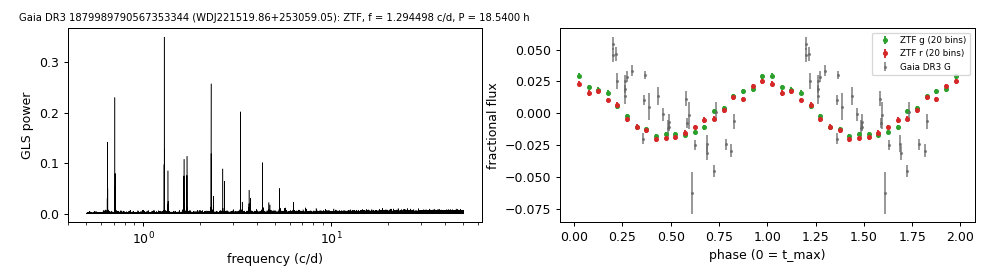
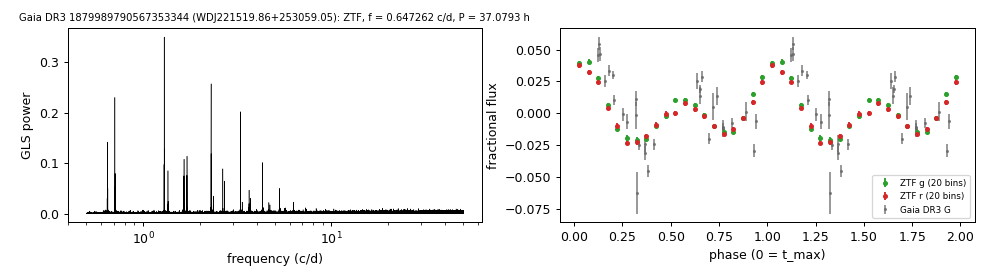
Corrections: ZZ Ceti index periods from adopted rows, two hot-WD periods at the fundamental (37.08 h, 29.49 h), inconsistent Zeeman fields flagged, eclipser relabelled, DAO Teff strings, J1949 lead reworded

diff --git a/scripts/object_pages.py b/scripts/object_pages.py
@@ -6,6 +6,7 @@ All numbers are taken verbatim from tables/*.csv; descriptions repeat the topic 
 Usage: python object_pages.py (run from scripts/)."""
 import os, glob, collections
 import pandas as pd
+import numpy as np
 
 R = os.path.join(os.path.dirname(os.path.abspath(__file__)), "..")
 OUT = os.path.join(R, "docs", "objects")
@@ -106,14 +107,20 @@ add("3107374277060584064", "WDJ064438.09-004550.51", Entry(
     ["reflection_3107374277060584064.py"], None))
 
 # Irradiated companions.
-d = T("irradiated_companions.csv")
+d = T("irradiated_companions.csv"); dp = T("irradiated_companions_periods.csv")
+def ratio_err(gaia):
+    q = dp[dp.gaia_dr3 == gaia].set_index("dataset")
+    if "Gaia RP" not in q.index or "Gaia BP" not in q.index: return ""
+    rp, bp = q.loc["Gaia RP"], q.loc["Gaia BP"]; ar, er, ab, eb = (float(x) for x in (rp.semi_amplitude_pct, rp.e_semi_amplitude_pct, bp.semi_amplitude_pct, bp.e_semi_amplitude_pct))
+    v = ar / ab; return f"{v:.1f} ± {v * ((er / ar) ** 2 + (eb / ab) ** 2) ** 0.5:.1f}"
 for _, r in d.iterrows():
     desc = (f"Low-mass white dwarf: GF21 H-atmosphere Teff {r.gf21_teff_H} K, {r.gf21_mass_H} Msun; "
             f"G = {r.G}, {r.distance_pc} pc.")
     w1 = f"; W1 {r.W1_ratio}x the white-dwarf model (companion M_W1 = {r.M_W1_companion})" if r.W1_ratio else ""
-    obs = f"P = {r.period_min} min; red-to-blue semi-amplitude ratio {r.red_to_blue_amplitude}{w1}"
+    rerr = ratio_err(r.gaia_dr3) or str(r.red_to_blue_amplitude)
+    obs = f"P = {r.period_min} min; red-to-blue (Gaia RP/BP) semi-amplitude ratio {rerr}{w1}"
     add(r.gaia_dr3, r["name"], Entry("irradiated_companions", "Short-period white dwarfs with irradiated companions",
-        "irradiated_companions.md", desc, obs, f"P = {r.period_min} min; " + (f"**W1 {r.W1_ratio}x model**" if r.W1_ratio else f"**red/blue amplitude {r.red_to_blue_amplitude}**"),
+        "irradiated_companions.md", desc, obs, f"P = {r.period_min} min; " + (f"**W1 {r.W1_ratio}x model**" if r.W1_ratio else f"red/blue amplitude {rerr}"),
         ["irradiated_companions.csv", "irradiated_companions_periods.csv"], None, ["irradiated_companions.py"], None))
 
 # Gaseous discs.
@@ -144,8 +151,11 @@ for _, r in d.iterrows():
     desc = f"DA white dwarf, G = {r.G}; catalogued: {cat(r, ('snowwhite_class', 'SnowWhite'), ('simbad_type', 'SIMBAD'), ('mwdd_spectype', 'MWDD'))}." + (f" {r.note[0].upper() + r.note[1:]}{'' if r.note.endswith('.') else '.'}" if r.note else "")
     obs = (f"Zeeman-split Balmer lines: B = {r.B_split_Ha_MG} ± {r.e_B_split_Ha_MG} MG (H-alpha), "
            f"{r.B_split_Hb_MG} ± {r.e_B_split_Hb_MG} MG (H-beta); spectrum S/N {r.snr}")
+    inconsistent = abs(float(r.B_split_Ha_MG) - float(r.B_split_Hb_MG)) > 1.0
+    if inconsistent: obs += "; the two lines disagree by more than 1 MG, so the field is not established"
     add(r.gaia_dr3, r["name"], Entry("zeeman", "Zeeman splitting", "zeeman.md", desc, obs,
-        f"B = {r.B_split_Ha_MG} MG", ["magnetic_zeeman.csv"], None, ["zeeman_split.py"], None))
+        f"B = {r.B_split_Ha_MG} MG (H-alpha) vs {r.B_split_Hb_MG} MG (H-beta): inconsistent" if inconsistent else f"B = {r.B_split_Ha_MG} MG",
+        ["magnetic_zeeman.csv"], None, ["zeeman_split.py"], None))
 
 # TESS amplitude spectra (ZZ Ceti candidates).
 zo, zs = T("zz_ceti_objects.csv"), T("zz_ceti_tess_sectors.csv")
@@ -158,14 +168,15 @@ for _, r in zo.iterrows():
     pix = "; ".join(f"pixel-level test (sector {x.sector}): chi2 {x.pixel_chi2_target} at the target vs {x.pixel_chi2_best_other} "
                     f"at the best other star (G = {x.pixel_best_other_G}, {x.pixel_best_other_sep_arcsec} arcsec)" for _, x in px.iterrows())
     obs = f"TESS pulsation signal(s): {per}" + (f"; {pix}" if pix else "")
+    best = (px if len(px) else g[g.cadence_s == 120]).sort_values("fap_baluev").iloc[0]
     add(r.gaia_dr3, r["name"], Entry("zz_ceti", "TESS amplitude spectra", "zz_ceti.md", desc, obs,
-        f"pulsations, {g.iloc[0].period_s} s", ["zz_ceti_objects.csv", "zz_ceti_tess_sectors.csv"],
+        f"pulsations, {best.period_s} s (sector {best.sector}, FAP {best.fap_baluev})", ["zz_ceti_objects.csv", "zz_ceti_tess_sectors.csv"],
         None, ["tess_periodogram.py", "tess_pixel_test.py"], None))
 
 # Eclipses and Balmer emission.
 r = T("eclipsing_4731701084150029824.csv").iloc[0]
 add(r.gaia_dr3, r["name"], Entry("eclipse_and_emission", "Eclipse and Balmer emission", "eclipse_and_emission.md",
-    f"White dwarf, G = {r.G}; catalogued: {cat(r, ('simbad_type', 'SIMBAD'), ('mwdd_spectype', 'MWDD'))}.",
+    f"Star with M-dwarf colours (BP-RP {r.bp_rp}, M_G {float(r.G) - 5 * np.log10(1000 / float(r.parallax_mas)) + 5:.2f}), G = {r.G}; the eclipsed object is not identified; catalogued: {cat(r, ('simbad_type', 'SIMBAD'), ('mwdd_spectype', 'MWDD'))}.",
     f"Eclipses in ATLAS: P = {r.period_d} ± {r.e_period_d} d, total duration {r.total_duration_min} min, depths {r.depth_o_uJy}/{r.depth_c_uJy} uJy (o/c)",
     f"eclipses, P = {r.period_d} d", ["eclipsing_4731701084150029824.csv"], None, ["j0353_eclipse.py"], None))
 for _, r in T("balmer_emission.csv").iterrows():
@@ -177,19 +188,25 @@ for _, r in T("balmer_emission.csv").iterrows():
 
 # Hot white dwarfs with He II lines (targets; the table also carries the control stars).
 d = T("hot_white_dwarfs.csv")
+for c in ("teff_kK", "teff_min_kK", "teff_max_kK"): d[c] = d[c].astype(float)
+TEFF_NOT_CONSTRAINED = {"6365804611201098368", "5671975077144346112"}  # as judged on docs/hot_white_dwarfs.md (grid ceiling; S/N)
 for gaia, g in d[d.role == "target"].groupby("gaia_dr3", sort=False):
+    he = g[g.line_set == "He only"].iloc[0]
     fits = "; ".join(f"{x.line_set}: Teff {x.teff_kK} kK ({x.teff_min_kK}-{x.teff_max_kK}), log g {x.logg}" for _, x in g.iterrows())
     lit = g.iloc[0].lit_teff_kK
     obs = f"He II 4686 and Balmer absorption (DAO); TMAP model fits - {fits}" + (f"; literature Teff {lit} kK" if str(lit).strip() else "")
     add(gaia, g.iloc[0]["name"], Entry("hot_white_dwarfs", "Hot white dwarfs with He II lines", "hot_white_dwarfs.md",
-        "Hot white dwarf; no earlier spectrum found.", obs, "DAO, Teff ~60-110 kK (TMAP)",
+        "Hot white dwarf; no earlier spectrum found.", obs,
+        "DAO (He II 4686 + Balmer); " + ("Teff not constrained" if gaia in TEFF_NOT_CONSTRAINED else f"Teff {he.teff_kK:g} kK (He-only TMAP fit" + (f", {he.teff_min_kK:g}-{he.teff_max_kK:g}" if he.teff_min_kK != he.teff_max_kK else "") + ")"),
         ["hot_white_dwarfs.csv"], None, ["hot_white_dwarfs.py"], None))
 
 # Write the object pages.
 PAGE_LEAD = {
-    "2249098833310553728": "A catalogued but unclassified 63.7-minute variable, identified here as a low-mass white dwarf "
-    "with an irradiated, near-Roche-filling companion — potentially the shortest-period detached white dwarf + brown dwarf "
-    "system known (the shortest published period is 68.2 min; Casewell et al. 2018).",
+    "2249098833310553728": "A catalogued but unclassified 63.7-minute variable: a coherent modulation on an over-luminous "
+    "low-mass white dwarf, 1.6 ± 0.3 times larger in Gaia RP than in BP. With the GF21 parameters (16.8 kK, 0.14 Msun) the "
+    "15.6% G-band semi-amplitude is more than a passive companion inside its Roche lobe can reflect, so either the companion "
+    "is at or beyond its Roche lobe or the primary is hotter than the photometric fit; no spectrum and no infrared "
+    "measurement (a red source 3.7 arcsec away dominates WISE) exist, so the companion's nature is open.",
 }
 ORDER = ["gas_discs", "carbon", "zeeman", "periodic", "zz_ceti", "eclipse_and_emission", "hot_white_dwarfs",
          "irradiated_companions", "hot_wd_periods", "dae_wd_periods"]
@@ -262,7 +279,7 @@ for topic in ORDER:
     for name, g, e in rows:
         m = MARK.get(g, 0)
         marks = " " + "\\*" * m if m else ""
-        s = e.short if g in NOBOLD or "**" in e.short else f"**{e.short}**"
+        s = e.short if g in NOBOLD or "**" in e.short or "inconsistent" in e.short or "red/blue amplitude" in e.short else f"**{e.short}**"
         idx.append(f"| [{name}](docs/objects/{g}.md){marks} | {e.desc} | {s} |")
     idx.append("")
 p = os.path.join(R, "README.md"); t = open(p).read()

diff --git a/README.md b/README.md
@@ -61,7 +61,7 @@ One page per object with the measurement and its supporting data (tables, input 
 | [GALEX J060732.0-390139](docs/objects/2883030508640778752.md) \*\* | DA white dwarf, G = 17.582; catalogued: SnowWhite DAH; SIMBAD WD*/DA:; MWDD DA:. | **B = 8.83 MG** |
 | [GALEX J215736.7-574324](docs/objects/6412133010376770560.md) \*\* | DA white dwarf, G = 18.645; catalogued: SnowWhite DAH; SIMBAD WD*/DA; MWDD DA. | **B = 7.96 MG** |
 | [GALEX J203016.2-620507](docs/objects/6430762242043644032.md) \*\* | DA white dwarf, G = 18.771; catalogued: SnowWhite DAH/DA; SIMBAD WD*/DA; MWDD DA. | **B = 6.96 MG** |
-| [Gaia DR3 5848754492268362624](docs/objects/5848754492268362624.md) \*\* | DA white dwarf, G = 17.888; catalogued: SnowWhite DAH/DA; SIMBAD WD*/DA; MWDD DA:. | **B = 7.11 MG** |
+| [Gaia DR3 5848754492268362624](docs/objects/5848754492268362624.md) \*\* | DA white dwarf, G = 17.888; catalogued: SnowWhite DAH/DA; SIMBAD WD*/DA; MWDD DA:. | B = 7.11 MG (H-alpha) vs 5.93 MG (H-beta): inconsistent |
 | [Gaia DR3 428300220431345536](docs/objects/428300220431345536.md) \*\* | DA white dwarf, G = 17.572; catalogued: SnowWhite DA/DAH; SIMBAD WD*/DA; MWDD DA:. | **B = 6.51 MG** |
 | [GALEX J195006.0+015739](docs/objects/4241409569220727424.md) \*\* | DA white dwarf, G = 18.226; catalogued: SnowWhite DA/DAH; SIMBAD WD*/DA; MWDD DA. | **B = 9.74 MG** |
 | [Cl* Melotte   25  REIDA     503](docs/objects/50526755482496000.md) \*\* | DA white dwarf, G = 18.333; catalogued: SnowWhite DAH; SIMBAD WD*/DA:; MWDD DA:. | **B = 10.02 MG** |
@@ -74,10 +74,10 @@ One page per object with the measurement and its supporting data (tables, input 
 | [GALEX J035849.5-605233](docs/objects/4680104332056706304.md) \*\* | DA white dwarf, G = 18.697; catalogued: SnowWhite DAH/DA; SIMBAD WD*/DA; MWDD DA. | **B = 6.04 MG** |
 | [GALEX J052137.6-425430](docs/objects/4800536829945050752.md) \*\* | DA white dwarf, G = 19.525; catalogued: SnowWhite DA/DAH; SIMBAD WD?. | **B = 6.93 MG** |
 | [Gaia DR3 4187365308538865792](docs/objects/4187365308538865792.md) \*\* | DA white dwarf, G = 19.421; catalogued: SnowWhite DA/DAH; SIMBAD WD*/DA; MWDD DA. | **B = 5.47 MG** |
-| [GALEX J004807.2+433940](docs/objects/375892788968158848.md) \*\* | DA white dwarf, G = 19.121; catalogued: SnowWhite DAH; SIMBAD WD*/DA:; MWDD DA:. | **B = 8.76 MG** |
+| [GALEX J004807.2+433940](docs/objects/375892788968158848.md) \*\* | DA white dwarf, G = 19.121; catalogued: SnowWhite DAH; SIMBAD WD*/DA:; MWDD DA:. | B = 8.76 MG (H-alpha) vs 3.74 MG (H-beta): inconsistent |
 | [GALEX J033920.8-475633](docs/objects/4833309388918586624.md) \*\* | DA white dwarf, G = 19.696; catalogued: SnowWhite DA/DAH; SIMBAD WD?. | **B = 7.27 MG** |
 | [GALEX J213436.2-521245](docs/objects/6465559379883395328.md) \*\* | DA white dwarf, G = 19.088; catalogued: SnowWhite DA; SIMBAD WD*/DA; MWDD DA. | **B = 4.16 MG** |
-| [Gaia DR3 5665371272869153152](docs/objects/5665371272869153152.md) \*\* | DA white dwarf, G = 19.297; catalogued: SnowWhite DA; SIMBAD WD?. | **B = 8.5 MG** |
+| [Gaia DR3 5665371272869153152](docs/objects/5665371272869153152.md) \*\* | DA white dwarf, G = 19.297; catalogued: SnowWhite DA; SIMBAD WD?. | B = 8.5 MG (H-alpha) vs 4.15 MG (H-beta): inconsistent |
 | [Gaia DR3 3327361677328480256](docs/objects/3327361677328480256.md) \*\* | DA white dwarf, G = 17.835; catalogued: SnowWhite DA; SIMBAD WD*/DA; MWDD DA. | **B = 3.57 MG** |
 | [GALEX J040038.6-615458](docs/objects/4679463733391272448.md) \*\* | DA white dwarf, G = 18.514; catalogued: SnowWhite DA; SIMBAD WD*/DA; MWDD DA. Common proper motion with Gaia DR3 4679466653969618816 (G 9.83) at 86 arcsec. | **B = 4.28 MG** |
 | [GALEX J050006.8+080244](docs/objects/3290180587821828480.md) \*\* | DA white dwarf, G = 18.906; catalogued: SnowWhite DA; SIMBAD WD*/DA; MWDD DA. | **B = 5.3 MG** |
@@ -109,17 +109,17 @@ One page per object with the measurement and its supporting data (tables, input 
 
 | object | description | measurement |
 |---|---|---|
-| [GALEX J054243.4-261011](docs/objects/2908195134345338496.md) \*\* | White dwarf, G = 17.634; SnowWhite DA (Teff 12173 K, log g 7.93); catalogued: SIMBAD WD*/DA; MWDD DA. | **pulsations, 692.1 s** |
-| [GALEX J033619.1-564435](docs/objects/4729763229265811328.md) \*\* | White dwarf, G = 17.493; SnowWhite DA (Teff 11626 K, log g 8.07); catalogued: SIMBAD WD*/DA; MWDD DA. | **pulsations, 605.1 s** |
-| [L  210-25](docs/objects/6472153670805656832.md) \*\* | White dwarf, G = 16.402; SnowWhite DA (Teff 11191 K, log g 8.16); catalogued: SIMBAD WD*/DA; MWDD DA. | **pulsations, 817.3 s** |
-| [[OHD2001] WD J2324-595](docs/objects/6492083311194727168.md) \*\*\* | White dwarf, G = 16.809; SnowWhite DA (Teff 11600 K, log g 7.89); catalogued: SIMBAD WD*/DA; MWDD DA. | **pulsations, 170.4 s** |
-| [GALEX J214927.5-515827](docs/objects/6558472750993181568.md) \*\*\* | White dwarf, G = 17.084; SnowWhite DA (Teff 11817 K, log g 8.12); catalogued: SIMBAD WD*/DA; MWDD DA. | **pulsations, 1067.1 s** |
+| [GALEX J054243.4-261011](docs/objects/2908195134345338496.md) \*\* | White dwarf, G = 17.634; SnowWhite DA (Teff 12173 K, log g 7.93); catalogued: SIMBAD WD*/DA; MWDD DA. | **pulsations, 692.1 s (sector 98, FAP 9.5e-05)** |
+| [GALEX J033619.1-564435](docs/objects/4729763229265811328.md) \*\* | White dwarf, G = 17.493; SnowWhite DA (Teff 11626 K, log g 8.07); catalogued: SIMBAD WD*/DA; MWDD DA. | **pulsations, 971.4 s (sector 96, FAP 6.4e-05)** |
+| [L  210-25](docs/objects/6472153670805656832.md) \*\* | White dwarf, G = 16.402; SnowWhite DA (Teff 11191 K, log g 8.16); catalogued: SIMBAD WD*/DA; MWDD DA. | **pulsations, 940.9 s (sector 105, FAP 0.0012)** |
+| [[OHD2001] WD J2324-595](docs/objects/6492083311194727168.md) \*\*\* | White dwarf, G = 16.809; SnowWhite DA (Teff 11600 K, log g 7.89); catalogued: SIMBAD WD*/DA; MWDD DA. | **pulsations, 1049.3 s (sector 102, FAP 1.5e-27)** |
+| [GALEX J214927.5-515827](docs/objects/6558472750993181568.md) \*\*\* | White dwarf, G = 17.084; SnowWhite DA (Teff 11817 K, log g 8.12); catalogued: SIMBAD WD*/DA; MWDD DA. | **pulsations, 947.5 s (sector 102, FAP 3.3e-05)** |
 
 ### Eclipse and Balmer emission (3)
 
 | object | description | measurement |
 |---|---|---|
-| [Gaia DR3 4731701084150029824](docs/objects/4731701084150029824.md) \*\*\* | White dwarf, G = 18.373; catalogued: none found. | **eclipses, P = 0.14786971 d** |
+| [Gaia DR3 4731701084150029824](docs/objects/4731701084150029824.md) \*\*\* | Star with M-dwarf colours (BP-RP 2.817, M_G 13.17), G = 18.373; the eclipsed object is not identified; catalogued: none found. | **eclipses, P = 0.14786971 d** |
 | [Gaia DR3 2002597083798483200](docs/objects/2002597083798483200.md) \*\* | G = 18.816; catalogued: SIMBAD WD*/DQ:; MWDD DQ:. | **Balmer emission, EW 318.3 A** |
 | [Gaia DR3 1977447164064222976](docs/objects/1977447164064222976.md) \*\* | G = 19.454; catalogued: SIMBAD WD*/DC:; MWDD DC:. | **Balmer emission, EW 45.9 A** |
 
@@ -127,12 +127,12 @@ One page per object with the measurement and its supporting data (tables, input 
 
 | object | description | measurement |
 |---|---|---|
-| [GALEX J055029.7-155446](docs/objects/2995107164834343680.md) \*\*\* | Hot white dwarf; no earlier spectrum found. | **DAO, Teff ~60-110 kK (TMAP)** |
-| [GALEX J062928.9-415857](docs/objects/5570041179495992704.md) \*\*\* | Hot white dwarf; no earlier spectrum found. | **DAO, Teff ~60-110 kK (TMAP)** |
-| [SDSS J081413.43+022524.7](docs/objects/3090786872841030016.md) \*\*\* | Hot white dwarf; no earlier spectrum found. | **DAO, Teff ~60-110 kK (TMAP)** |
-| [Gaia DR3 4036084504408126976](docs/objects/4036084504408126976.md) \*\*\* | Hot white dwarf; no earlier spectrum found. | **DAO, Teff ~60-110 kK (TMAP)** |
-| [GALEX J190659.9-755815](docs/objects/6365804611201098368.md) \*\*\* | Hot white dwarf; no earlier spectrum found. | **DAO, Teff ~60-110 kK (TMAP)** |
-| [WDJ095852.35-175833.41](docs/objects/5671975077144346112.md) \*\*\* | Hot white dwarf; no earlier spectrum found. | **DAO, Teff ~60-110 kK (TMAP)** |
+| [GALEX J055029.7-155446](docs/objects/2995107164834343680.md) \*\*\* | Hot white dwarf; no earlier spectrum found. | **DAO (He II 4686 + Balmer); Teff 110 kK (He-only TMAP fit, 100-120)** |
+| [GALEX J062928.9-415857](docs/objects/5570041179495992704.md) \*\*\* | Hot white dwarf; no earlier spectrum found. | **DAO (He II 4686 + Balmer); Teff 100 kK (He-only TMAP fit)** |
+| [SDSS J081413.43+022524.7](docs/objects/3090786872841030016.md) \*\*\* | Hot white dwarf; no earlier spectrum found. | **DAO (He II 4686 + Balmer); Teff 90 kK (He-only TMAP fit)** |
+| [Gaia DR3 4036084504408126976](docs/objects/4036084504408126976.md) \*\*\* | Hot white dwarf; no earlier spectrum found. | **DAO (He II 4686 + Balmer); Teff 90 kK (He-only TMAP fit)** |
+| [GALEX J190659.9-755815](docs/objects/6365804611201098368.md) \*\*\* | Hot white dwarf; no earlier spectrum found. | **DAO (He II 4686 + Balmer); Teff not constrained** |
+| [WDJ095852.35-175833.41](docs/objects/5671975077144346112.md) \*\*\* | Hot white dwarf; no earlier spectrum found. | **DAO (He II 4686 + Balmer); Teff not constrained** |
 
 ### Short-period white dwarfs with irradiated companions (6)
 
@@ -142,7 +142,7 @@ One page per object with the measurement and its supporting data (tables, input 
 | [WDJ212738.67+593755.72](docs/objects/2191618770599895296.md) \*\*\*\* | Low-mass white dwarf: GF21 H-atmosphere Teff 13777 K, 0.263 Msun; G = 16.871, 241 pc. | P = 130.182 min; **W1 3.61x model** |
 | [WDJ070106.16-534811.37](docs/objects/5503429908930455808.md) \*\*\*\* | Low-mass white dwarf: GF21 H-atmosphere Teff 16240 K, 0.256 Msun; G = 18.426, 602 pc. | P = 81.493 min; **W1 2.21x model** |
 | [WDJ040444.35-395043.1](docs/objects/4844023064578952320.md) \*\*\*\* | Low-mass white dwarf: GF21 H-atmosphere Teff 20562 K, 0.243 Msun; G = 17.663, 632 pc. | P = 117.319 min; **W1 2.02x model** |
-| [WDJ194901.41+673005.59](docs/objects/2249098833310553728.md) \*\*\*\*\* | Low-mass white dwarf: GF21 H-atmosphere Teff 16817 K, 0.143 Msun; G = 18.027, 739 pc. | P = 63.68 min; **red/blue amplitude 1.61** |
+| [WDJ194901.41+673005.59](docs/objects/2249098833310553728.md) \*\*\*\*\* | Low-mass white dwarf: GF21 H-atmosphere Teff 16817 K, 0.143 Msun; G = 18.027, 739 pc. | P = 63.68 min; red/blue amplitude 1.6 ± 0.3 |
 | [WDJ005615.18-661731.98](docs/objects/4705562733524591232.md) \*\*\* | Low-mass white dwarf: GF21 H-atmosphere Teff 15358 K, 0.255 Msun; G = 18.801, 714 pc. | P = 73.522 min; **W1 1.69x model** |
 
 ### Day-scale periods of hot white dwarfs (9)
@@ -151,9 +151,9 @@ One page per object with the measurement and its supporting data (tables, input 
 |---|---|---|
 | [WDJ091433.60+581238.12](docs/objects/1038176780370360576.md) \*\*\* | SBSS 0910+584; spectral type DO (MWDD). G = 17.73, 810 pc. | **P = 27.23048 h, 3.8% (ZTF)** |
 | [WDJ151215.73+065156.43](docs/objects/1157401396015448960.md) \* | GALEX J151215.7+065156; UHE white dwarf, DOZ (Reindl et al. 2021, where the period is published). G = 17.22, 990 pc. | P = 5.4245 h, 1.8% (ZTF) |
-| [WDJ221519.86+253059.05](docs/objects/1879989790567353344.md) \*\*\* | GALEX J221519.8+253059; spectral type DOZ (MWDD). G = 17.05, 1190 pc. | **P = 18.54001 h, 2.2% (ZTF)** |
+| [WDJ221519.86+253059.05](docs/objects/1879989790567353344.md) \*\*\* | GALEX J221519.8+253059; spectral type DOZ (MWDD). G = 17.05, 1190 pc. | **P = 37.07929 h, 1.4% (ZTF)** |
 | [WDJ075540.94+400917.91](docs/objects/920621124593362816.md) \* | KUV 07523+4017; DOZ / PG 1159 (Reindl et al. 2021, where the period is published). G = 17.80, 1052 pc. | P = 20.78523 h, 2.5% (ZTF) |
-| [WDJ065819.86+441438.40](docs/objects/953685015492787456.md) \*\*\* | Gaia XP class DO (Vincent et al. 2024). G = 17.53, 483 pc. | **P = 14.74481 h, 2.8% (ZTF)** |
+| [WDJ065819.86+441438.40](docs/objects/953685015492787456.md) \*\*\* | Gaia XP class DO (Vincent et al. 2024). G = 17.53, 483 pc. | **P = 29.49088 h, 0.9% (ZTF)** |
 | [WDJ025657.85-145029.92](docs/objects/5157333438398813824.md) \*\*\* | Spectral type DA with a photometric temperature above 100 kK (MWDD). G = 17.37, 1072 pc. | **P = 28.51831 h, 3.4% (ZTF)** |
 | [WDJ171743.52+515840.07](docs/objects/1415911839725510528.md) \*\* | Spectral type DA, 68.0 kK (Kilic et al. 2026, via the MWDD). G = 17.59, 833 pc. | **P = 30.1191 h, 1.9% (ZTF)** |
 | [WDJ234931.84-353916.52](docs/objects/2311285729210966144.md) \*\* | GALEX J234931.8-353916; SDSS-V DR20 SnowWhite class DA. G = 17.88, 882 pc. | **P = 26.4793 h, 2.6% (ATLAS)** |

diff --git a/docs/hot_wd_periods.md b/docs/hot_wd_periods.md
@@ -1,6 +1,6 @@
 # Day-scale photometric periods of hot white dwarfs
 
-`tables/hot_wd_periods.csv` lists nine white dwarfs, most with helium-dominated spectra hotter than 50,000 K, with photometric periods of 5.4 to 30.1 hours. Seven come from a blind Lomb-Scargle search of the ZTF light curves of the 716 white dwarfs that Jestin et al. (2026) list as not variable; two come from Gaia DR3 periodogram frequencies confirmed with ATLAS forced photometry. For two of the nine (WDJ151215.73+065156.43 and KUV 07523+4017) the period was already published by Reindl et al. (2021); the other seven have no published period. The method is in [METHODS.md](../METHODS.md#methods).
+`tables/hot_wd_periods.csv` lists nine white dwarfs, most with helium-dominated spectra hotter than 50,000 K, with photometric periods of 5.4 to 37.1 hours. Seven come from a blind Lomb-Scargle search of the ZTF light curves of the 716 white dwarfs that Jestin et al. (2026) list as not variable; two come from Gaia DR3 periodogram frequencies confirmed with ATLAS forced photometry. For two of the nine (WDJ151215.73+065156.43 and KUV 07523+4017) the period was already published by Reindl et al. (2021); the other seven have no published period. The method is in [METHODS.md](../METHODS.md#methods).
 
 Checks applied to every star: VSX, the Montreal White Dwarf Database, Chen et al. (2020), Gao et al. (2025), Wang et al. (2025), Oliveira da Rosa et al. (2024), Filiz et al. (2026), Reindl et al. (2021) and the TESS cataclysmic-variable catalogue (2026); TARS excludes these stars by its magnitude and distance cuts.
 
@@ -8,15 +8,16 @@ Checks applied to every star: VSX, the Montreal White Dwarf Database, Chen et al
 |---|---|---|---|---|---|---|
 | WDJ091433.60+581238.12 | 1038176780370360576 | 17.73 | 810 | SBSS 0910+584; spectral type DO (MWDD) | 27.2305 | ZTF g 4.0%, r 3.4% |
 | WDJ151215.73+065156.43 | 1157401396015448960 | 17.22 | 990 | GALEX J151215.7+065156; UHE white dwarf, DOZ (Reindl et al. 2021); period published there: 0.226022 d | 5.4245 | ZTF g 1.9%, r 1.8% |
-| WDJ221519.86+253059.05 | 1879989790567353344 | 17.05 | 1190 | GALEX J221519.8+253059; spectral type DOZ (MWDD) | 18.5400 | ZTF g 2.3%, r 2.1%; Gaia G 2.9% |
+| WDJ221519.86+253059.05 | 1879989790567353344 | 17.05 | 1190 | GALEX J221519.8+253059; spectral type DOZ (MWDD) | 37.0793 | fundamental: ZTF g 1.4%, r 1.4%; first harmonic (18.54 h): g 2.3%, r 2.0% |
 | WDJ075540.94+400917.91 | 920621124593362816 | 17.80 | 1052 | KUV 07523+4017; DOZ / PG 1159 (Reindl et al. 2021); period published there: 0.866092 d | 20.7852 | ZTF g 2.2%, r 2.7% |
-| WDJ065819.86+441438.40 | 953685015492787456 | 17.53 | 483 | Gaia XP class DO (Vincent et al. 2024) | 14.7448 | ZTF g 3.5%, r 2.8% |
+| WDJ065819.86+441438.40 | 953685015492787456 | 17.53 | 483 | Gaia XP class DO (Vincent et al. 2024) | 29.4909 | fundamental: ZTF g 1.0%, r 0.9%; first harmonic (14.74 h): g 3.4%, r 2.7% |
 | WDJ025657.85-145029.92 | 5157333438398813824 | 17.37 | 1072 | spectral type DA with a photometric temperature above 100 kK (MWDD) | 28.5183 | ZTF g 3.4%, r 3.5% |
 | WDJ171743.52+515840.07 | 1415911839725510528 | 17.59 | 833 | spectral type DA, 68.0 kK (Kilic et al. 2026, via the MWDD) | 30.1191 | ZTF g 1.9%, r 1.9% |
 | WDJ234931.84-353916.52 | 2311285729210966144 | 17.88 | 882 | GALEX J234931.8-353916; SDSS-V DR20 SnowWhite class DA | 26.4793 | ATLAS c+o 2.6%; Gaia G 3.6% |
 | WDJ065134.01+185201.09 | 3365371721281530880 | 18.10 | 1100 | no spectrum found | 20.1718 | ATLAS c+o 3.6%; Gaia G 5.2% |
 
 - **Distance:** 1/parallax.
+- WDJ221519.86+253059.05 and WDJ065819.86+441438.40 were first listed here at 18.5400 h and 14.7448 h, the strongest Lomb-Scargle peaks. Both light curves also carry a coherent component at half that frequency (semi-amplitude 1.4% and 0.9%, 22-25 and 15 sigma, present in g and r at the same phase), and folded at twice the first period alternate maxima and minima differ by 20-30 mmag. The photometric periods are therefore 37.0793 h and 29.4909 h, with the earlier value being the first harmonic; `adopt_frequency_cd` in `data/hot_dae_wd_periods_sources.csv` records this. Whether the longer period is orbital (ellipsoidal or double-spotted rotation would give exactly this pattern) is not decided by the photometry.
 - Jestin et al. (2026) list the seven ZTF stars as not variable (their table A1); the periodograms above give false-alarm probabilities of 1e-63 to 1e-252.
 - The periods of WDJ151215.73+065156.43 and KUV 07523+4017 are in the period tables of Reindl et al. (2021, A&A 647, A184); those tables are not in VizieR and were matched by name after the first version of this page.
 - WDJ234931.84-353916.52 and WDJ065134.01+185201.09 carry Gaia DR3 `vari_spurious_signals` frequencies; ATLAS shows the same frequency as the highest peak in both bands.

diff --git a/METHODS.md b/METHODS.md
@@ -60,7 +60,7 @@
     - seven stars from a blind joint g+r Lomb-Scargle search (0.5-50 c/d; 0.03 c/d around 1, 2 and 3 c/d masked) of the ZTF light curves of the 716 white dwarfs with Variable = False in Jestin et al. (2026, A&A 712, A243, table A1), keeping false-alarm probability < 1e-8, amplitude > 5 sigma, the same frequency recovered in at least 3 of 4 subsets (g only, r only, first and second half after 60-day detrending), and no shared-frequency cluster;
     - two stars with Gaia DR3 `vari_spurious_signals` frequencies recovered as the highest ATLAS peak in both bands;
     - seven stars from the DESI DR1 classes DAe, DAE and DA+ (Amorim et al. 2026), ZTF false-alarm probability < 1e-6. Two further stars whose top ZTF frequency was not reproduced by this pipeline (a 1 c/d alias, and an unstable peak choice) were excluded.
-  - Light curves, frequency refinement, amplitudes and `t_max` as for the fourteen-star set above; ZTF light curves from a 1.5 arcsec cone; frequencies within 0.03 c/d of 1, 2 and 3 c/d excluded. Where the true frequency lies inside an excluded band and is established by other data, `data/hot_dae_wd_periods_sources.csv` gives it as `adopt_frequency_cd` with the reference, and the refinement is run there (WDJ172406.13+562003.08: 3.0028 c/d). The frequency uncertainty (half-range of the fine grid with chi2 <= chi2_min + chi2_r) is floored at 1/20 of the frequency resolution 1/T.
+  - Light curves, frequency refinement, amplitudes and `t_max` as for the fourteen-star set above; ZTF light curves from a 1.5 arcsec cone; frequencies within 0.03 c/d of 1, 2 and 3 c/d excluded. The strongest peak can be the first harmonic of the true period: each light curve is also fitted at half the peak frequency with its harmonic, and a coherent half-frequency component (present in both ZTF bands at the same phase, with unequal alternate cycles when folded at twice the period) makes the longer period the adopted one; WDJ221519.86+253059.05 and WDJ065819.86+441438.40 were corrected this way. Where the true frequency lies inside an excluded band and is established by other data, `data/hot_dae_wd_periods_sources.csv` gives it as `adopt_frequency_cd` with the reference, and the refinement is run there (WDJ172406.13+562003.08: 3.0028 c/d). The frequency uncertainty (half-range of the fine grid with chi2 <= chi2_min + chi2_r) is floored at 1/20 of the frequency resolution 1/T.
   - Period-novelty checks per star: VSX; the MWDD master table; SIMBAD; a VizieR all-table cone (period/frequency columns); Chen et al. (2020); Gao et al. (2025, ApJS 276, 57); Wang et al. (2025, ApJS 281, 52); the arXiv source tables of Oliveira da Rosa et al. (2024, ApJ 974, 314) and Filiz et al. (2026, arXiv:2601.11191) by TIC and of Reindl et al. (2021, A&A 647, A184) by name; the TESS CV catalogue (arXiv:2607.08727); TARS (arXiv:2603.05586) excludes these stars by its T < 16, d < 100 pc cuts (checked 2026-09-27).
   - CatWISE2020 excesses for the emission-line stars as on the irradiated-companion page.
 - **Gaia DR3 3107374277060584064** (`reflection_3107374277060584064.py`).

diff --git a/docs/objects/2249098833310553728.md b/docs/objects/2249098833310553728.md
@@ -1,12 +1,12 @@
 # WDJ194901.41+673005.59 (Gaia DR3 2249098833310553728)
 
-A catalogued but unclassified 63.7-minute variable, identified here as a low-mass white dwarf with an irradiated, near-Roche-filling companion — potentially the shortest-period detached white dwarf + brown dwarf system known (the shortest published period is 68.2 min; Casewell et al. 2018).
+A catalogued but unclassified 63.7-minute variable: a coherent modulation on an over-luminous low-mass white dwarf, 1.6 ± 0.3 times larger in Gaia RP than in BP. With the GF21 parameters (16.8 kK, 0.14 Msun) the 15.6% G-band semi-amplitude is more than a passive companion inside its Roche lobe can reflect, so either the companion is at or beyond its Roche lobe or the primary is hotter than the photometric fit; no spectrum and no infrared measurement (a red source 3.7 arcsec away dominates WISE) exist, so the companion's nature is open.
 
 ## Short-period white dwarfs with irradiated companions
 
 Low-mass white dwarf: GF21 H-atmosphere Teff 16817 K, 0.143 Msun; G = 18.027, 739 pc.
 
-**Measurement.** P = 63.68 min; red-to-blue semi-amplitude ratio 1.61.
+**Measurement.** P = 63.68 min; red-to-blue (Gaia RP/BP) semi-amplitude ratio 1.6 ± 0.3.
 
 Method and context: [irradiated_companions](../irradiated_companions.md)
 

diff --git a/docs/zeeman.md b/docs/zeeman.md
@@ -42,3 +42,5 @@ One figure per star (H-alpha and H-beta):
 | 3327361677328480256 | Gaia DR3 3327361677328480256 | 3.57 | 3.65 | 15.3 | [png](../figures/zeeman/3327361677328480256.png) |
 | 4679463733391272448 | GALEX J040038.6-615458 | 4.28 | 4.22 | 13.2 | [png](../figures/zeeman/4679463733391272448.png) |
 | 3290180587821828480 | GALEX J050006.8+080244 | 5.3 | 5.1 | 10.3 | [png](../figures/zeeman/3290180587821828480.png) |
+
+Consistency between the two lines: for 27 of the 30 stars the H-alpha and H-beta fields agree to within 1 MG. For three (Gaia DR3 375892788968158848, 5665371272869153152 and 5848754492268362624) the H-beta fit gives a field 1.2 to 5 MG below the H-alpha value, with the H-beta sigma components far closer to the central component than the H-alpha field requires; the field of these three is not established and they are marked as inconsistent in the index. The formal errors in the table come from the line-centre fits alone: 10 of the 30 stars differ between the two lines by more than three formal sigma, so the real uncertainty of a single-line field is a few tenths of a MG, not the tabulated hundredths.

diff --git a/docs/objects/1879989790567353344.md b/docs/objects/1879989790567353344.md
@@ -4,14 +4,14 @@
 
 GALEX J221519.8+253059; spectral type DOZ (MWDD). G = 17.05, 1190 pc.
 
-**Measurement.** P = 18.54001 ± 0.00026 h (ZTF, n = 2716, BJD 2458218.987-2460969.789); semi-amplitude 2.2% ± 0.1%.
+**Measurement.** P = 37.07929 ± 0.00104 h (ZTF, n = 2716, BJD 2458218.987-2460969.789); semi-amplitude 1.4% ± 0.1%.
 
 | data set | n | semi-amplitude | first harmonic |
 |---|---|---|---|
-| ZTF | 2716 | 2.19% ± 0.06% | 0.14% |
-| ZTF zg | 1259 | 2.27% ± 0.07% | 0.17% |
-| ZTF zr | 1457 | 2.08% ± 0.09% | 0.15% |
-| Gaia DR3 epoch photometry G | 30 | 2.90% ± 0.48% | - |
+| ZTF | 2716 | 1.39% ± 0.05% | 2.18% |
+| ZTF zg | 1259 | 1.41% ± 0.06% | 2.29% |
+| ZTF zr | 1457 | 1.36% ± 0.08% | 2.04% |
+| Gaia DR3 epoch photometry G | 30 | 1.85% ± 0.72% | - |
 
 Method and context: [hot_wd_periods](../hot_wd_periods.md)
 

diff --git a/docs/eclipse_and_emission.md b/docs/eclipse_and_emission.md
@@ -1,7 +1,7 @@
 # Eclipse and Balmer emission
 
 ## Eclipse
-`tables/eclipsing_4731701084150029824.csv`: eclipse ephemeris of Gaia DR3 4731701084150029824 from ATLAS forced photometry (method in [METHODS.md](../METHODS.md#methods)).
+`tables/eclipsing_4731701084150029824.csv`: eclipse ephemeris of Gaia DR3 4731701084150029824 from ATLAS forced photometry (method in [METHODS.md](../METHODS.md#methods)). The star has the colours and luminosity of a mid-M dwarf (BP-RP 2.82, parallax 9.10 mas, M_G 13.2), not of a white dwarf; the eclipses remove about a third of its light for 10.6 min every 3.55 h, consistent with a compact companion being totally eclipsed, but the eclipsed object is not identified.
 
 <img src="../figures/eclipse/4731701084150029824_atlas_phase.png" width="550">
 

diff --git a/docs/objects/953685015492787456.md b/docs/objects/953685015492787456.md
@@ -4,13 +4,13 @@
 
 Gaia XP class DO (Vincent et al. 2024). G = 17.53, 483 pc.
 
-**Measurement.** P = 14.74481 ± 0.00016 h (ZTF, n = 2586, BJD 2458214.632-2460968.955); semi-amplitude 2.8% ± 0.1%.
+**Measurement.** P = 29.49088 ± 0.00092 h (ZTF, n = 2586, BJD 2458214.632-2460968.955); semi-amplitude 0.9% ± 0.1%.
 
 | data set | n | semi-amplitude | first harmonic |
 |---|---|---|---|
-| ZTF | 2586 | 2.82% ± 0.08% | 0.20% |
-| ZTF zg | 111 | 3.46% ± 0.31% | 0.47% |
-| ZTF zr | 2475 | 2.77% ± 0.09% | 0.18% |
+| ZTF | 2586 | 0.92% ± 0.08% | 2.73% |
+| ZTF zg | 111 | 0.98% ± 0.29% | 3.41% |
+| ZTF zr | 2475 | 0.92% ± 0.09% | 2.69% |
 
 Method and context: [hot_wd_periods](../hot_wd_periods.md)
 

diff --git a/docs/objects/5848754492268362624.md b/docs/objects/5848754492268362624.md
@@ -4,7 +4,7 @@
 
 DA white dwarf, G = 17.888; catalogued: SnowWhite DAH/DA; SIMBAD WD*/DA; MWDD DA:.
 
-**Measurement.** Zeeman-split Balmer lines: B = 7.11 ± 0.13 MG (H-alpha), 5.93 ± 0.21 MG (H-beta); spectrum S/N 11.3.
+**Measurement.** Zeeman-split Balmer lines: B = 7.11 ± 0.13 MG (H-alpha), 5.93 ± 0.21 MG (H-beta); spectrum S/N 11.3; the two lines disagree by more than 1 MG, so the field is not established.
 
 Method and context: [zeeman](../zeeman.md)
 

diff --git a/docs/objects/375892788968158848.md b/docs/objects/375892788968158848.md
@@ -4,7 +4,7 @@
 
 DA white dwarf, G = 19.121; catalogued: SnowWhite DAH; SIMBAD WD*/DA:; MWDD DA:.
 
-**Measurement.** Zeeman-split Balmer lines: B = 8.76 ± 0.04 MG (H-alpha), 3.74 ± 0.15 MG (H-beta); spectrum S/N 9.7.
+**Measurement.** Zeeman-split Balmer lines: B = 8.76 ± 0.04 MG (H-alpha), 3.74 ± 0.15 MG (H-beta); spectrum S/N 9.7; the two lines disagree by more than 1 MG, so the field is not established.
 
 Method and context: [zeeman](../zeeman.md)
 

diff --git a/docs/objects/2191618770599895296.md b/docs/objects/2191618770599895296.md
@@ -4,7 +4,7 @@
 
 Low-mass white dwarf: GF21 H-atmosphere Teff 13777 K, 0.263 Msun; G = 16.871, 241 pc.
 
-**Measurement.** P = 130.182 min; red-to-blue semi-amplitude ratio 2.74; W1 3.61x the white-dwarf model (companion M_W1 = 9.28).
+**Measurement.** P = 130.182 min; red-to-blue (Gaia RP/BP) semi-amplitude ratio 2.6 ± 0.8; W1 3.61x the white-dwarf model (companion M_W1 = 9.28).
 
 Method and context: [irradiated_companions](../irradiated_companions.md)
 
